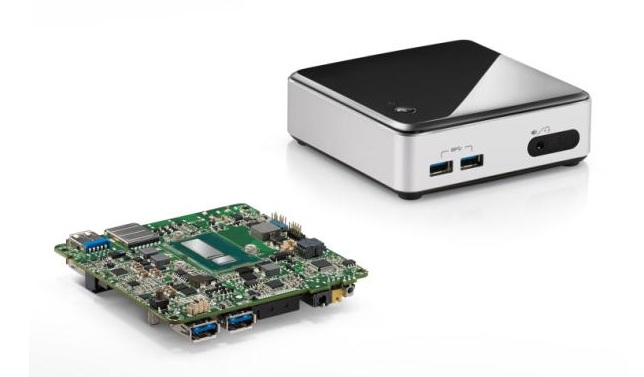
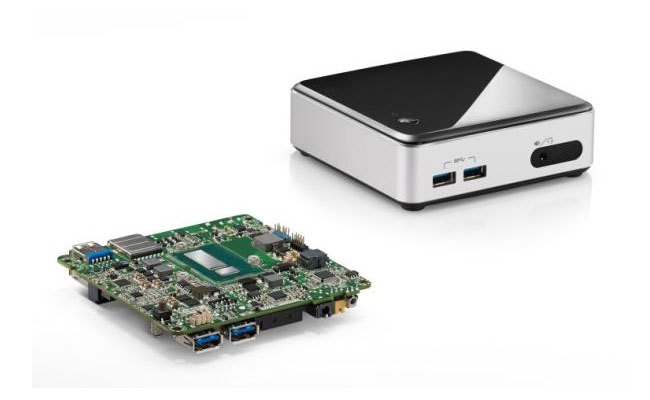
Update images to have equal size, use more professional rpi b+ image.

diff --git a/pages/about.md b/pages/about.md
@@ -30,7 +30,7 @@ Though we are target smaller devices on launch, we are by no means limited to de
 
 ### Raspberry Pi
 
-![Raspberry Pi](/img/rpi.png)
+![Raspberry Pi](/img/rpi_b_plus.jpg)
 
 With over 2 million units shipped worldwide, the [Raspberry Pi][rpi] is nothing short of a phenomenon. Unfortunately a lot of these devices end up in a drawer or an attic somewhere, sadly unused.
 
